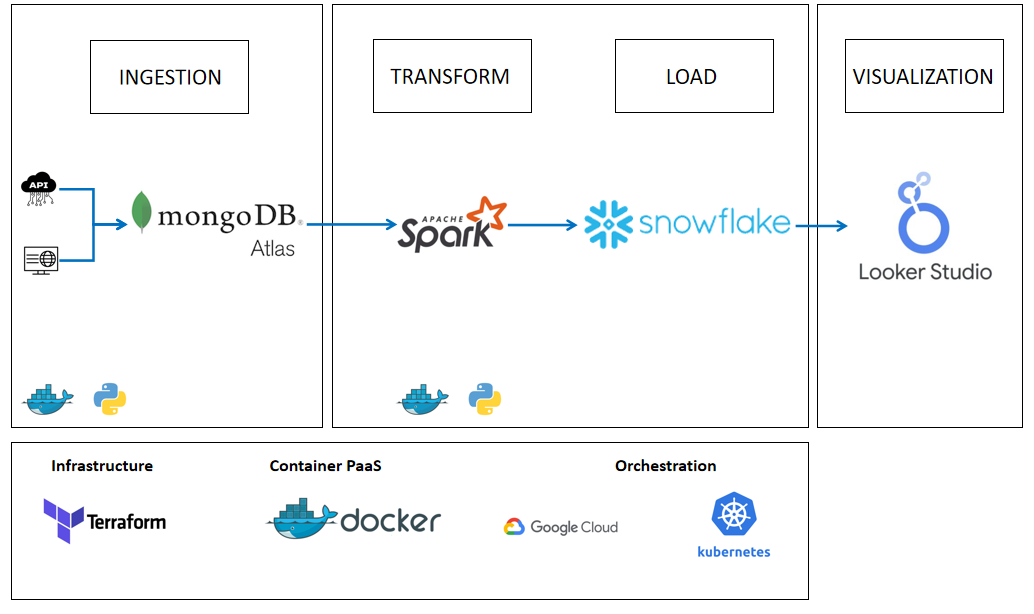
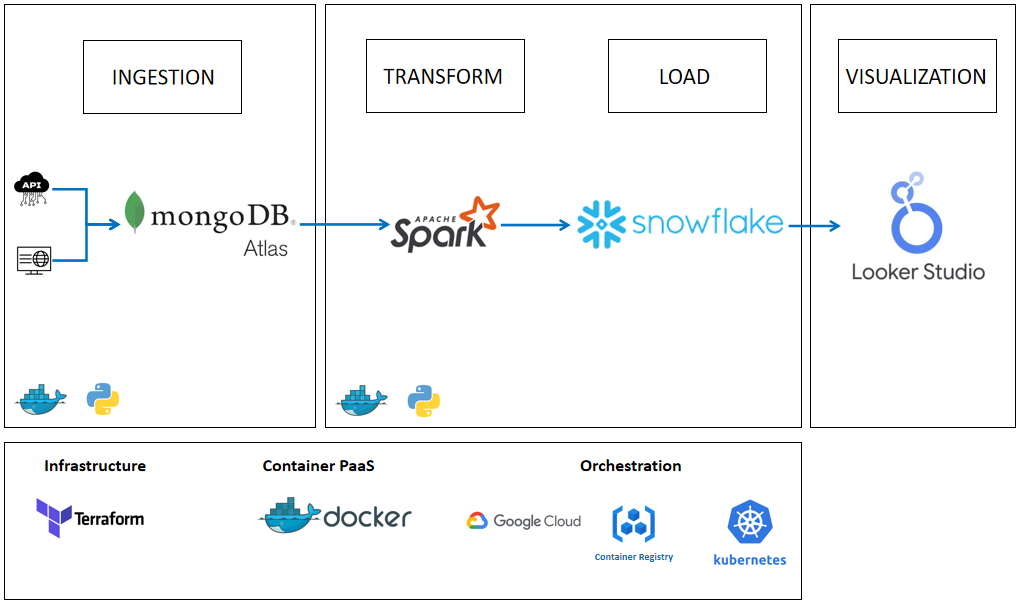
Modify README file and update archtiecture diagram

diff --git a/README.md b/README.md
@@ -5,8 +5,6 @@ The world's population has been growing at an unprecedented rate. Understanding 
 
 The visualization should provide insights into how population growth has evolved over time, which continents and countries have experienced the most significant growth, and how growth rates have varied across regions. 
 
-Furthermore, the visualization should be intuitive and accessible to a wide range of audiences to raise awareness about population issues.
-
 ### Data sources:
 World Bank Data API (https://datahelpdesk.worldbank.org/knowledgebase/articles/889392-about-the-indicators-api-documentation)
 
@@ -31,7 +29,7 @@ Webpage with world continent data (https://statisticstimes.com/geography/countri
 ![Alt text](./Datapipeline-Architecture.PNG?raw=true "Data Pipeline Diagram")
 
 ## Dashboard
-The visualization can be accessed here: **https://lookerstudio.google.com/s/h6FpjThM-Zw**
+The visualization can be accessed here: **https://lookerstudio.google.com/s/ji2oilMWA7o**
 
 ![Alt text](./Dashboard-Page1.PNG?raw=true "Dashboard Page 1")
 
